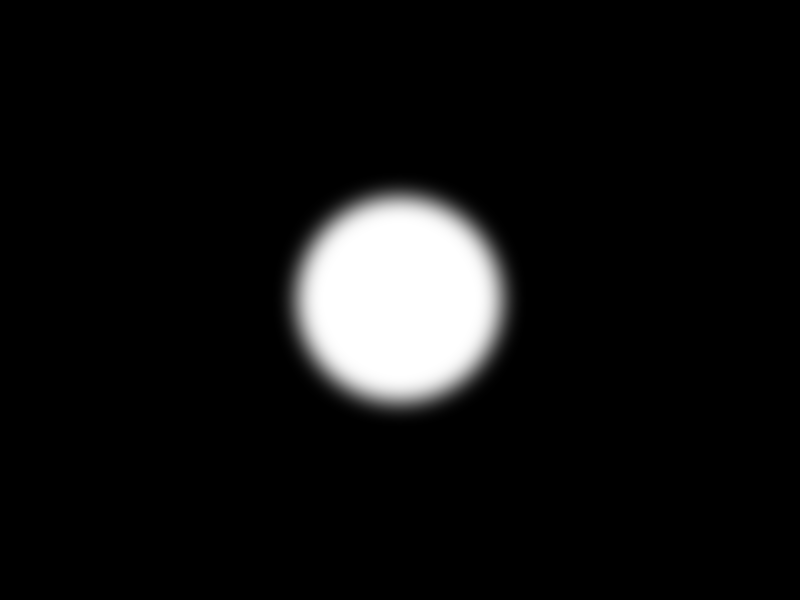
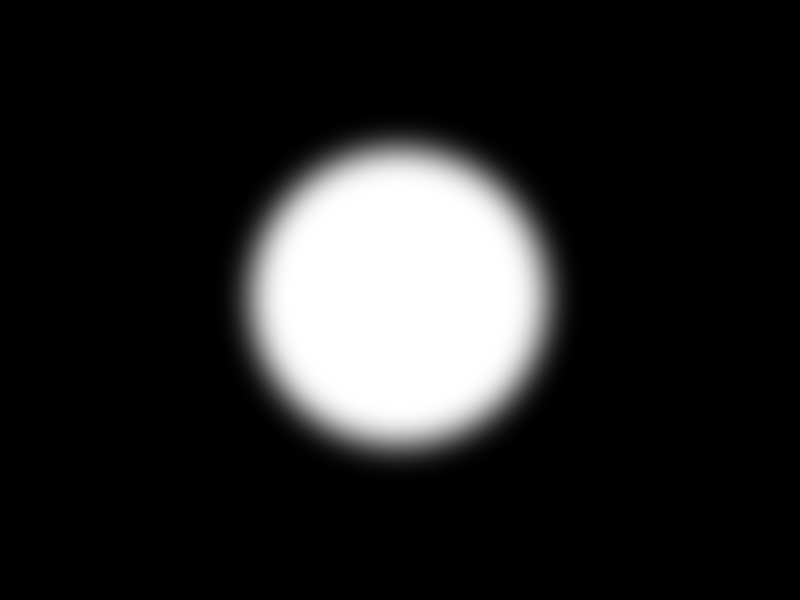
bgm, ins update

Changed region(s): [[0.2812, 0.21, 0.7188, 0.78]]

diff --git a/src/scenes/PlayINS.js b/src/scenes/PlayINS.js
@@ -31,8 +31,7 @@ class PlayINS extends Phaser.Scene {
         const ins2 = map.findObject('instruction',obj => obj.name === 'inst2')
         //this.player = new Swordsman (this,game.config.width/4,game.config.height/4).setOrigin(0.5);
         this.player = new Swordsman (this, p1Spawn.x, p1Spawn.y);
-        this.inscontrol = this.add.image(ins.x,ins.y, 'ins');
-        this.inslevl2 = this.add.image(ins2.x,ins2.y, 'ins2');
+        
         
 
         // Group that holds the health
@@ -118,7 +117,11 @@ class PlayINS extends Phaser.Scene {
 
         // background
         //this.backGround = this.add.tileSprite(0,0,3072,768,'Background').setOrigin(0,0);
+        this.blk = this.add.image(0,0,'blackcir').setOrigin(0);
+        this.blk.setScrollFactor(0);
 
+        this.inscontrol = this.add.image(ins.x,ins.y, 'insw');
+        this.inslevl2 = this.add.image(ins2.x,ins2.y, 'ins2w');
         // cooldowns
         this.cooldownConfig = {
             fontFamily: 'Courier',
@@ -131,7 +134,6 @@ class PlayINS extends Phaser.Scene {
             },
             fixedWidth: 0
         }
-        //this.blk = this.add.image(0,0,'blackcir').setOrigin(0);
 
 
     
@@ -153,7 +155,6 @@ class PlayINS extends Phaser.Scene {
         this.cdBar.setScrollFactor(0);
         this.cdBar.setAngle(180);
 
-        //this.blk.setScrollFactor(0);
         this.cameras.main.startFollow(this.player,true);
         
 
@@ -213,6 +214,7 @@ class PlayINS extends Phaser.Scene {
         //level1.alpha = 0.001;
         this.physics.add.overlap(this.player, level1, function(){
             this.player.walvol = false;
+            this.bgm.stop();
             this.scene.start('playScene');
         }, null, this)
     }

diff --git a/src/scenes/Play2.js b/src/scenes/Play2.js
@@ -115,7 +115,8 @@ class Play2 extends Phaser.Scene {
 
         // background
         //this.backGround = this.add.tileSprite(0,0,3072,768,'Background').setOrigin(0,0);
-
+        this.blk = this.add.image(0,0,'blackcir').setOrigin(0);
+        this.blk.setScrollFactor(0);
         // cooldowns
         this.cooldownConfig = {
             fontFamily: 'Courier',
@@ -128,7 +129,6 @@ class Play2 extends Phaser.Scene {
             },
             fixedWidth: 0
         }
-        //this.blk = this.add.image(0,0,'blackcir').setOrigin(0);
 
 
     
@@ -150,7 +150,6 @@ class Play2 extends Phaser.Scene {
         this.cdBar.setScrollFactor(0);
         this.cdBar.setAngle(180);
 
-        //this.blk.setScrollFactor(0);
         this.cameras.main.startFollow(this.player,true);
         
 
@@ -209,7 +208,8 @@ class Play2 extends Phaser.Scene {
         level1.body.immovable = true; 
         level1.alpha = 0.001;
         this.physics.add.overlap(this.player, level1, function(){
-            this.player.walvol = false;s
+            this.player.walvol = false;
+            this.bgm.stop();
             this.scene.start('playScene3');
         }, null, this)
     }

diff --git a/src/scenes/Play3.js b/src/scenes/Play3.js
@@ -115,7 +115,8 @@ class Play3 extends Phaser.Scene {
 
         // background
         //this.backGround = this.add.tileSprite(0,0,3072,768,'Background').setOrigin(0,0);
-
+        this.blk = this.add.image(0,0,'blackcir').setOrigin(0);
+        this.blk.setScrollFactor(0);
         // cooldowns
         this.cooldownConfig = {
             fontFamily: 'Courier',
@@ -128,7 +129,7 @@ class Play3 extends Phaser.Scene {
             },
             fixedWidth: 0
         }
-        //this.blk = this.add.image(0,0,'blackcir').setOrigin(0);
+        
 
 
     
@@ -150,7 +151,7 @@ class Play3 extends Phaser.Scene {
         this.cdBar.setScrollFactor(0);
         this.cdBar.setAngle(180);
 
-        //this.blk.setScrollFactor(0);
+        
         this.cameras.main.startFollow(this.player,true);
         
 
@@ -210,6 +211,7 @@ class Play3 extends Phaser.Scene {
         level1.alpha = 0.001;
         this.physics.add.overlap(this.player, level1, function(){
             this.player.walvol = false;
+            this.bgm.stop();
             this.scene.start('playScene3');
         }, null, this)
     }

diff --git a/src/scenes/Play.js b/src/scenes/Play.js
@@ -116,6 +116,8 @@ class Play extends Phaser.Scene {
         // background
         //this.backGround = this.add.tileSprite(0,0,3072,768,'Background').setOrigin(0,0);
 
+        this.blk = this.add.image(0,0,'blackcir').setOrigin(0);
+        this.blk.setScrollFactor(0);
         // cooldowns
         this.cooldownConfig = {
             fontFamily: 'Courier',
@@ -128,7 +130,6 @@ class Play extends Phaser.Scene {
             },
             fixedWidth: 0
         }
-        //this.blk = this.add.image(0,0,'blackcir').setOrigin(0);
 
 
     
@@ -150,7 +151,6 @@ class Play extends Phaser.Scene {
         this.cdBar.setScrollFactor(0);
         this.cdBar.setAngle(180);
 
-        //this.blk.setScrollFactor(0);
         this.cameras.main.startFollow(this.player,true);
         
 
@@ -210,6 +210,7 @@ class Play extends Phaser.Scene {
         level1.alpha = 0.001;
         this.physics.add.overlap(this.player, level1, function(){
             this.player.walvol = false;
+            this.bgm.stop();
             this.scene.start('playScene2');
         }, null, this)
     }

diff --git a/src/scenes/Load.js b/src/scenes/Load.js
@@ -32,6 +32,9 @@ class Load extends Phaser.Scene {
         this.load.image('blackcir','blackcir.png')
         this.load.image('ins','ins.png')
         this.load.image('ins2','ins2.png')
+        this.load.image('insw','inswhite.png')
+        this.load.image('ins2w','ins2white.png')
+
         this.load.image('healthimage', 'health.png')
         // audio stuff
         this.load.audio('walk_effect', 'walk_effect.wav');
